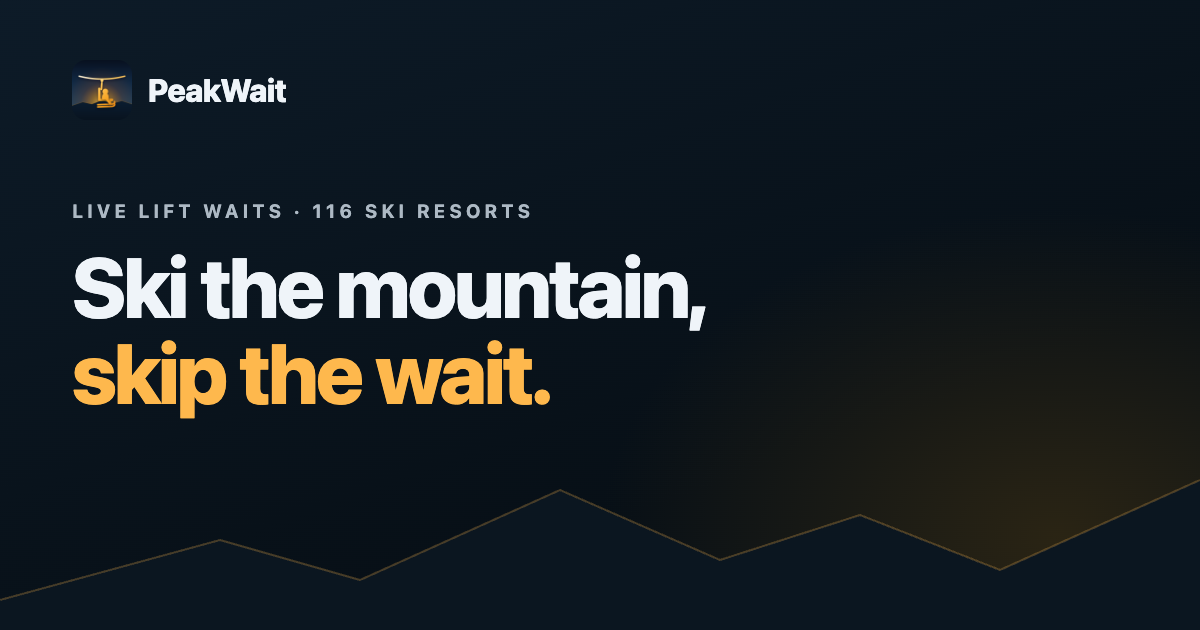
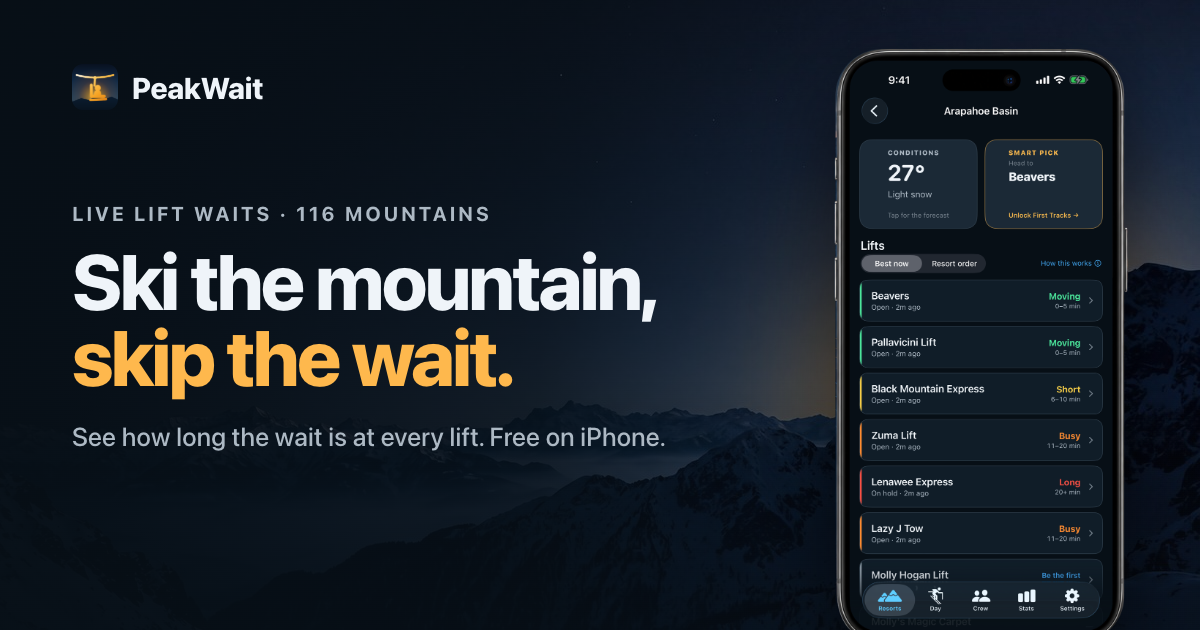
Fix the home film and refresh every link preview
- The film never played: the tap-to-play script still pointed at the mock's
  a/film.mp4. It is now a real <video> (works without the script), and the
  overlay just starts it.
- New link previews in the new look (Runway mountains, SF Pro, real phone):
  home, invite, updates, guides and one per guide section. og.png and
  og-invite.png replaced too, so older links get the new image.

Claude-Session: https://claude.ai/code/session_011tgCnv4mYNBDEkD15GxbWS

diff --git a/index.html b/index.html
@@ -26,14 +26,14 @@ gtag('config', 'G-LJ4V6MDP0Y');
 <meta property="og:title" content="Ski the mountain, skip the wait.">
 <meta property="og:description" content="See how long the wait is at every lift, and the best next chair from where you stand. Live from the skiers on the hill.">
 <meta property="og:url" content="https://peakwait.net/">
-<meta property="og:image" content="https://peakwait.net/og.png">
+<meta property="og:image" content="https://peakwait.net/assets/og/home.jpg">
 <meta property="og:image:width" content="1200">
 <meta property="og:image:height" content="630">
 <meta property="og:image:alt" content="PeakWait. Ski the mountain, skip the wait.">
 <meta name="twitter:card" content="summary_large_image">
 <meta name="twitter:title" content="Ski the mountain, skip the wait.">
 <meta name="twitter:description" content="Live lift waits at every lift, and the best next chair. Free on iPhone.">
-<meta name="twitter:image" content="https://peakwait.net/og.png">
+<meta name="twitter:image" content="https://peakwait.net/assets/og/home.jpg">
 <link rel="stylesheet" href="/assets/site.css">
 <script type="application/ld+json">
 {"@context":"https://schema.org","@type":"MobileApplication","name":"PeakWait","operatingSystem":"iOS","applicationCategory":"TravelApplication","description":"Real-time ski-lift wait times reported by skiers on the mountain, plus where to ski today and the best next chair. Covers 116 resorts across North and South America.","url":"https://peakwait.net/","image":"https://peakwait.net/icon-512.png","publisher":{"@type":"Organization","name":"PeakWait LLC","url":"https://peakwait.net/"},"offers":{"@type":"Offer","price":"0","priceCurrency":"USD"}}
@@ -315,7 +315,7 @@ gtag('config', 'G-LJ4V6MDP0Y');
 <section class="film" aria-label="PeakWait in 30 seconds">
   <div class="wrap">
     <div class="filmbox" id="filmbox">
-      <img src="/assets/img/film-poster.jpg" alt="" id="poster" width="1920" height="1080">
+      <video id="film" src="/assets/img/film.mp4" poster="/assets/img/film-poster.jpg" preload="none" playsinline controls width="1920" height="1080"></video>
       <button class="play" id="playbtn" type="button" aria-label="Play the 30-second PeakWait film">
         <span class="t"><b>Powder day. Everybody had the same idea.</b><span>Watch PeakWait in 30 seconds · sound on</span></span>
         <span class="pb"><svg viewBox="0 0 24 24"><path d="M7 4.5v15l13-7.5z"/></svg></span>
@@ -540,12 +540,11 @@ gtag('config', 'G-LJ4V6MDP0Y');
 <script>
   try{ new QRCode(document.getElementById('qr'),{text:'https://apps.apple.com/us/app/id6793253589',width:144,height:144,colorDark:'#070F16',colorLight:'#EFF4F9',correctLevel:QRCode.CorrectLevel.M}); }catch(e){}
   document.querySelectorAll('.menu nav a').forEach(a=>a.addEventListener('click',()=>a.closest('details').open=false));
-  // Film: tap to play once; holds on the last frame (the POV powder run). No loop, no end card.
-  document.getElementById('playbtn').addEventListener('click',function(){
-    const box=document.getElementById('filmbox'); const v=document.createElement('video');
-    v.src='a/film.mp4'; v.controls=true; v.playsInline=true; v.preload='auto';
-    box.replaceChildren(v); v.play().catch(()=>{});
-  });
+  // Film: a real <video> (works with no script); the overlay just starts it and gets out of the way.
+  // Holds on the last frame, the POV powder run. No loop, no end card.
+  (function(){const v=document.getElementById('film'),b=document.getElementById('playbtn');
+    b.addEventListener('click',()=>{b.hidden=true;v.play().catch(()=>{b.hidden=false;});});
+    v.addEventListener('play',()=>{b.hidden=true;});})();
 </script>
 </body>
 </html>

diff --git a/add/index.html b/add/index.html
@@ -24,14 +24,14 @@ gtag('config', 'G-LJ4V6MDP0Y');
 <meta property="og:title" content="Come find me on the mountain 🎿">
 <meta property="og:description" content="A friend wants to ski with you. Ski your first day with PeakWait and you both get a week of Plus.">
 <meta property="og:url" content="https://peakwait.net/add">
-<meta property="og:image" content="https://peakwait.net/og-invite.png">
+<meta property="og:image" content="https://peakwait.net/assets/og/invite.jpg">
 <meta property="og:image:width" content="1200">
 <meta property="og:image:height" content="630">
 <meta property="og:image:alt" content="Come find me on the mountain. Join me on PeakWait.">
 <meta name="twitter:card" content="summary_large_image">
 <meta name="twitter:title" content="Come find me on the mountain 🎿">
 <meta name="twitter:description" content="Ski your first day with PeakWait and you both get a week of Plus.">
-<meta name="twitter:image" content="https://peakwait.net/og-invite.png">
+<meta name="twitter:image" content="https://peakwait.net/assets/og/invite.jpg">
 <link rel="stylesheet" href="/assets/site.css">
 <style>
 .invite{min-height:100vh;display:grid;align-items:center;background:radial-gradient(120% 70% at 80% 0%,#15304C 0%,transparent 60%),linear-gradient(180deg,var(--skyTop),var(--bg) 80%);padding-block:48px}

diff --git a/guides/colorado-opening-day/index.html b/guides/colorado-opening-day/index.html
@@ -19,7 +19,7 @@ gtag('config', 'G-LJ4V6MDP0Y');
 <meta property="og:title" content="Which Colorado Ski Resorts Open First in 2026, and How to Know the Lifts Are Really Turning">
 <meta property="og:description" content="Arapahoe Basin and Keystone race to open in October, Loveland and Wolf Creek follow, and the rest arrive through November. Why the posted date is soft, what opening day actually looks like, and how to know a lift is spinning before you drive.">
 <meta property="og:url" content="https://peakwait.net/guides/colorado-opening-day/">
-<meta property="og:image" content="https://peakwait.net/assets/img/pov.jpg">
+<meta property="og:image" content="https://peakwait.net/assets/og/co.jpg">
 <meta name="twitter:card" content="summary_large_image">
 <link rel="icon" href="/favicon.ico" sizes="any">
 <link rel="icon" href="/favicon.svg" type="image/svg+xml">

diff --git a/guides/keystone-lift-lines/index.html b/guides/keystone-lift-lines/index.html
@@ -19,7 +19,7 @@ gtag('config', 'G-LJ4V6MDP0Y');
 <meta property="og:title" content="Keystone Lift Waits: Three Mountains, One Way In and One Way Home in 2026">
 <meta property="og:description" content="Keystone is three mountains deep, and the crowd stacks at the front door in the morning and at the back door in the afternoon. Where the waits form at River Run, Montezuma, Santiago and Outback, and how to ski the day backwards.">
 <meta property="og:url" content="https://peakwait.net/guides/keystone-lift-lines/">
-<meta property="og:image" content="https://peakwait.net/assets/img/rw-guide.jpg">
+<meta property="og:image" content="https://peakwait.net/assets/og/co.jpg">
 <meta name="twitter:card" content="summary_large_image">
 <link rel="icon" href="/favicon.ico" sizes="any">
 <link rel="icon" href="/favicon.svg" type="image/svg+xml">

diff --git a/guides/beat-i70-ski-traffic-colorado-crowds/index.html b/guides/beat-i70-ski-traffic-colorado-crowds/index.html
@@ -19,7 +19,7 @@ gtag('config', 'G-LJ4V6MDP0Y');
 <meta property="og:title" content="How to Beat I-70 Ski Traffic and Colorado Weekend Crowds in 2026">
 <meta property="og:description" content="I-70 on a Saturday is a parking lot with a mountain view. Here's the real Colorado playbook: best days, sleeper resorts, timing, and how to pick a mountain that's actually worth the drive.">
 <meta property="og:url" content="https://peakwait.net/guides/beat-i70-ski-traffic-colorado-crowds/">
-<meta property="og:image" content="https://peakwait.net/assets/img/pov.jpg">
+<meta property="og:image" content="https://peakwait.net/assets/og/co.jpg">
 <meta name="twitter:card" content="summary_large_image">
 <link rel="icon" href="/favicon.ico" sizes="any">
 <link rel="icon" href="/favicon.svg" type="image/svg+xml">

diff --git a/guides/ski-resort-lift-lines/index.html b/guides/ski-resort-lift-lines/index.html
@@ -19,7 +19,7 @@ gtag('config', 'G-LJ4V6MDP0Y');
 <meta property="og:title" content="Why Ski Resort Lift Waits Feel So Brutal Now, and How to Get Your Day Back">
 <meta property="og:description" content="Two hour waits, $200 to stand in line, six runs all day. Here's why lift lines got so bad, what skiers actually say about it, and how to claw back the parts you can control.">
 <meta property="og:url" content="https://peakwait.net/guides/ski-resort-lift-lines/">
-<meta property="og:image" content="https://peakwait.net/assets/img/film-poster.jpg">
+<meta property="og:image" content="https://peakwait.net/assets/og/play.jpg">
 <meta name="twitter:card" content="summary_large_image">
 <link rel="icon" href="/favicon.ico" sizes="any">
 <link rel="icon" href="/favicon.svg" type="image/svg+xml">

diff --git a/guides/vail-lift-lines/index.html b/guides/vail-lift-lines/index.html
@@ -19,7 +19,7 @@ gtag('config', 'G-LJ4V6MDP0Y');
 <meta property="og:title" content="Vail Lift Waits: The Two That Matter and the Ones That Don't in 2026">
 <meta property="og:description" content="Vail is enormous, but nearly everyone enters through the same two lifts. Here is how the crowd moves across the front side, the Back Bowls and Blue Sky Basin, and how to stay ahead of it.">
 <meta property="og:url" content="https://peakwait.net/guides/vail-lift-lines/">
-<meta property="og:image" content="https://peakwait.net/assets/img/rw-guide.jpg">
+<meta property="og:image" content="https://peakwait.net/assets/og/co.jpg">
 <meta name="twitter:card" content="summary_large_image">
 <link rel="icon" href="/favicon.ico" sizes="any">
 <link rel="icon" href="/favicon.svg" type="image/svg+xml">

diff --git a/guides/beat-powder-day-crowds/index.html b/guides/beat-powder-day-crowds/index.html
@@ -19,7 +19,7 @@ gtag('config', 'G-LJ4V6MDP0Y');
 <meta property="og:title" content="How to Beat Powder Day Crowds and Still Get Fresh Tracks in 2026">
 <meta property="og:description" content="Powder days now mean 90 minute waits and everything tracked out by 11am. Here's how to actually score freshies: smarter resort picks, timing, and live wait data. No 5am alarm required.">
 <meta property="og:url" content="https://peakwait.net/guides/beat-powder-day-crowds/">
-<meta property="og:image" content="https://peakwait.net/assets/img/pov.jpg">
+<meta property="og:image" content="https://peakwait.net/assets/og/play.jpg">
 <meta name="twitter:card" content="summary_large_image">
 <link rel="icon" href="/favicon.ico" sizes="any">
 <link rel="icon" href="/favicon.svg" type="image/svg+xml">

diff --git a/guides/alta-snowbird-powder-day-lines/index.html b/guides/alta-snowbird-powder-day-lines/index.html
@@ -19,7 +19,7 @@ gtag('config', 'G-LJ4V6MDP0Y');
 <meta property="og:title" content="Alta and Snowbird on a Powder Day: The Little Cottonwood Playbook in 2026">
 <meta property="og:description" content="Little Cottonwood on a powder day is glorious and brutal in equal measure. Here's how to handle the canyon, the parking, and the lift lines at Alta and Snowbird.">
 <meta property="og:url" content="https://peakwait.net/guides/alta-snowbird-powder-day-lines/">
-<meta property="og:image" content="https://peakwait.net/assets/img/rw-hero3.jpg">
+<meta property="og:image" content="https://peakwait.net/assets/og/ut.jpg">
 <meta name="twitter:card" content="summary_large_image">
 <link rel="icon" href="/favicon.ico" sizes="any">
 <link rel="icon" href="/favicon.svg" type="image/svg+xml">

diff --git a/updates/keeps-counting/index.html b/updates/keeps-counting/index.html
@@ -19,7 +19,7 @@ gtag('config', 'G-LJ4V6MDP0Y');
 <meta property="og:title" content="PeakWait 1.5: A Day That Keeps Counting">
 <meta property="og:description" content="Your ski day keeps counting with no signal. Answer How's the wait from your lock screen or Apple Watch, get a welcome when you arrive, share your day as a story, and earn a week of PeakWait Plus for every friend you bring.">
 <meta property="og:url" content="https://peakwait.net/updates/keeps-counting/">
-<meta property="og:image" content="https://peakwait.net/og.png">
+<meta property="og:image" content="https://peakwait.net/assets/og/updates.jpg">
 <meta name="twitter:card" content="summary_large_image">
 <link rel="icon" href="/favicon.ico" sizes="any">
 <link rel="icon" href="/favicon.svg" type="image/svg+xml">

diff --git a/guides/least-crowded-colorado-ski-resorts/index.html b/guides/least-crowded-colorado-ski-resorts/index.html
@@ -19,7 +19,7 @@ gtag('config', 'G-LJ4V6MDP0Y');
 <meta property="og:title" content="The Least Crowded Colorado Ski Resorts, and How to Find the Quiet One Today">
 <meta property="og:description" content="The big I-70 resorts soak up all of Denver. Here are the Colorado mountains that stay quiet, and how to tell which one is actually empty on any given day.">
 <meta property="og:url" content="https://peakwait.net/guides/least-crowded-colorado-ski-resorts/">
-<meta property="og:image" content="https://peakwait.net/assets/img/pov.jpg">
+<meta property="og:image" content="https://peakwait.net/assets/og/co.jpg">
 <meta name="twitter:card" content="summary_large_image">
 <link rel="icon" href="/favicon.ico" sizes="any">
 <link rel="icon" href="/favicon.svg" type="image/svg+xml">

diff --git a/guides/breckenridge-lift-lines/index.html b/guides/breckenridge-lift-lines/index.html
@@ -19,7 +19,7 @@ gtag('config', 'G-LJ4V6MDP0Y');
 <meta property="og:title" content="Breckenridge Lift Waits: Where They Form and How to Skip Them in 2026">
 <meta property="og:description" content="Breck has 34 lifts across five peaks, and almost all the waiting happens at four of them. Here is where the crowd piles up, when it clears, and how to ski around it.">
 <meta property="og:url" content="https://peakwait.net/guides/breckenridge-lift-lines/">
-<meta property="og:image" content="https://peakwait.net/assets/img/rw-guide.jpg">
+<meta property="og:image" content="https://peakwait.net/assets/og/co.jpg">
 <meta name="twitter:card" content="summary_large_image">
 <link rel="icon" href="/favicon.ico" sizes="any">
 <link rel="icon" href="/favicon.svg" type="image/svg+xml">
